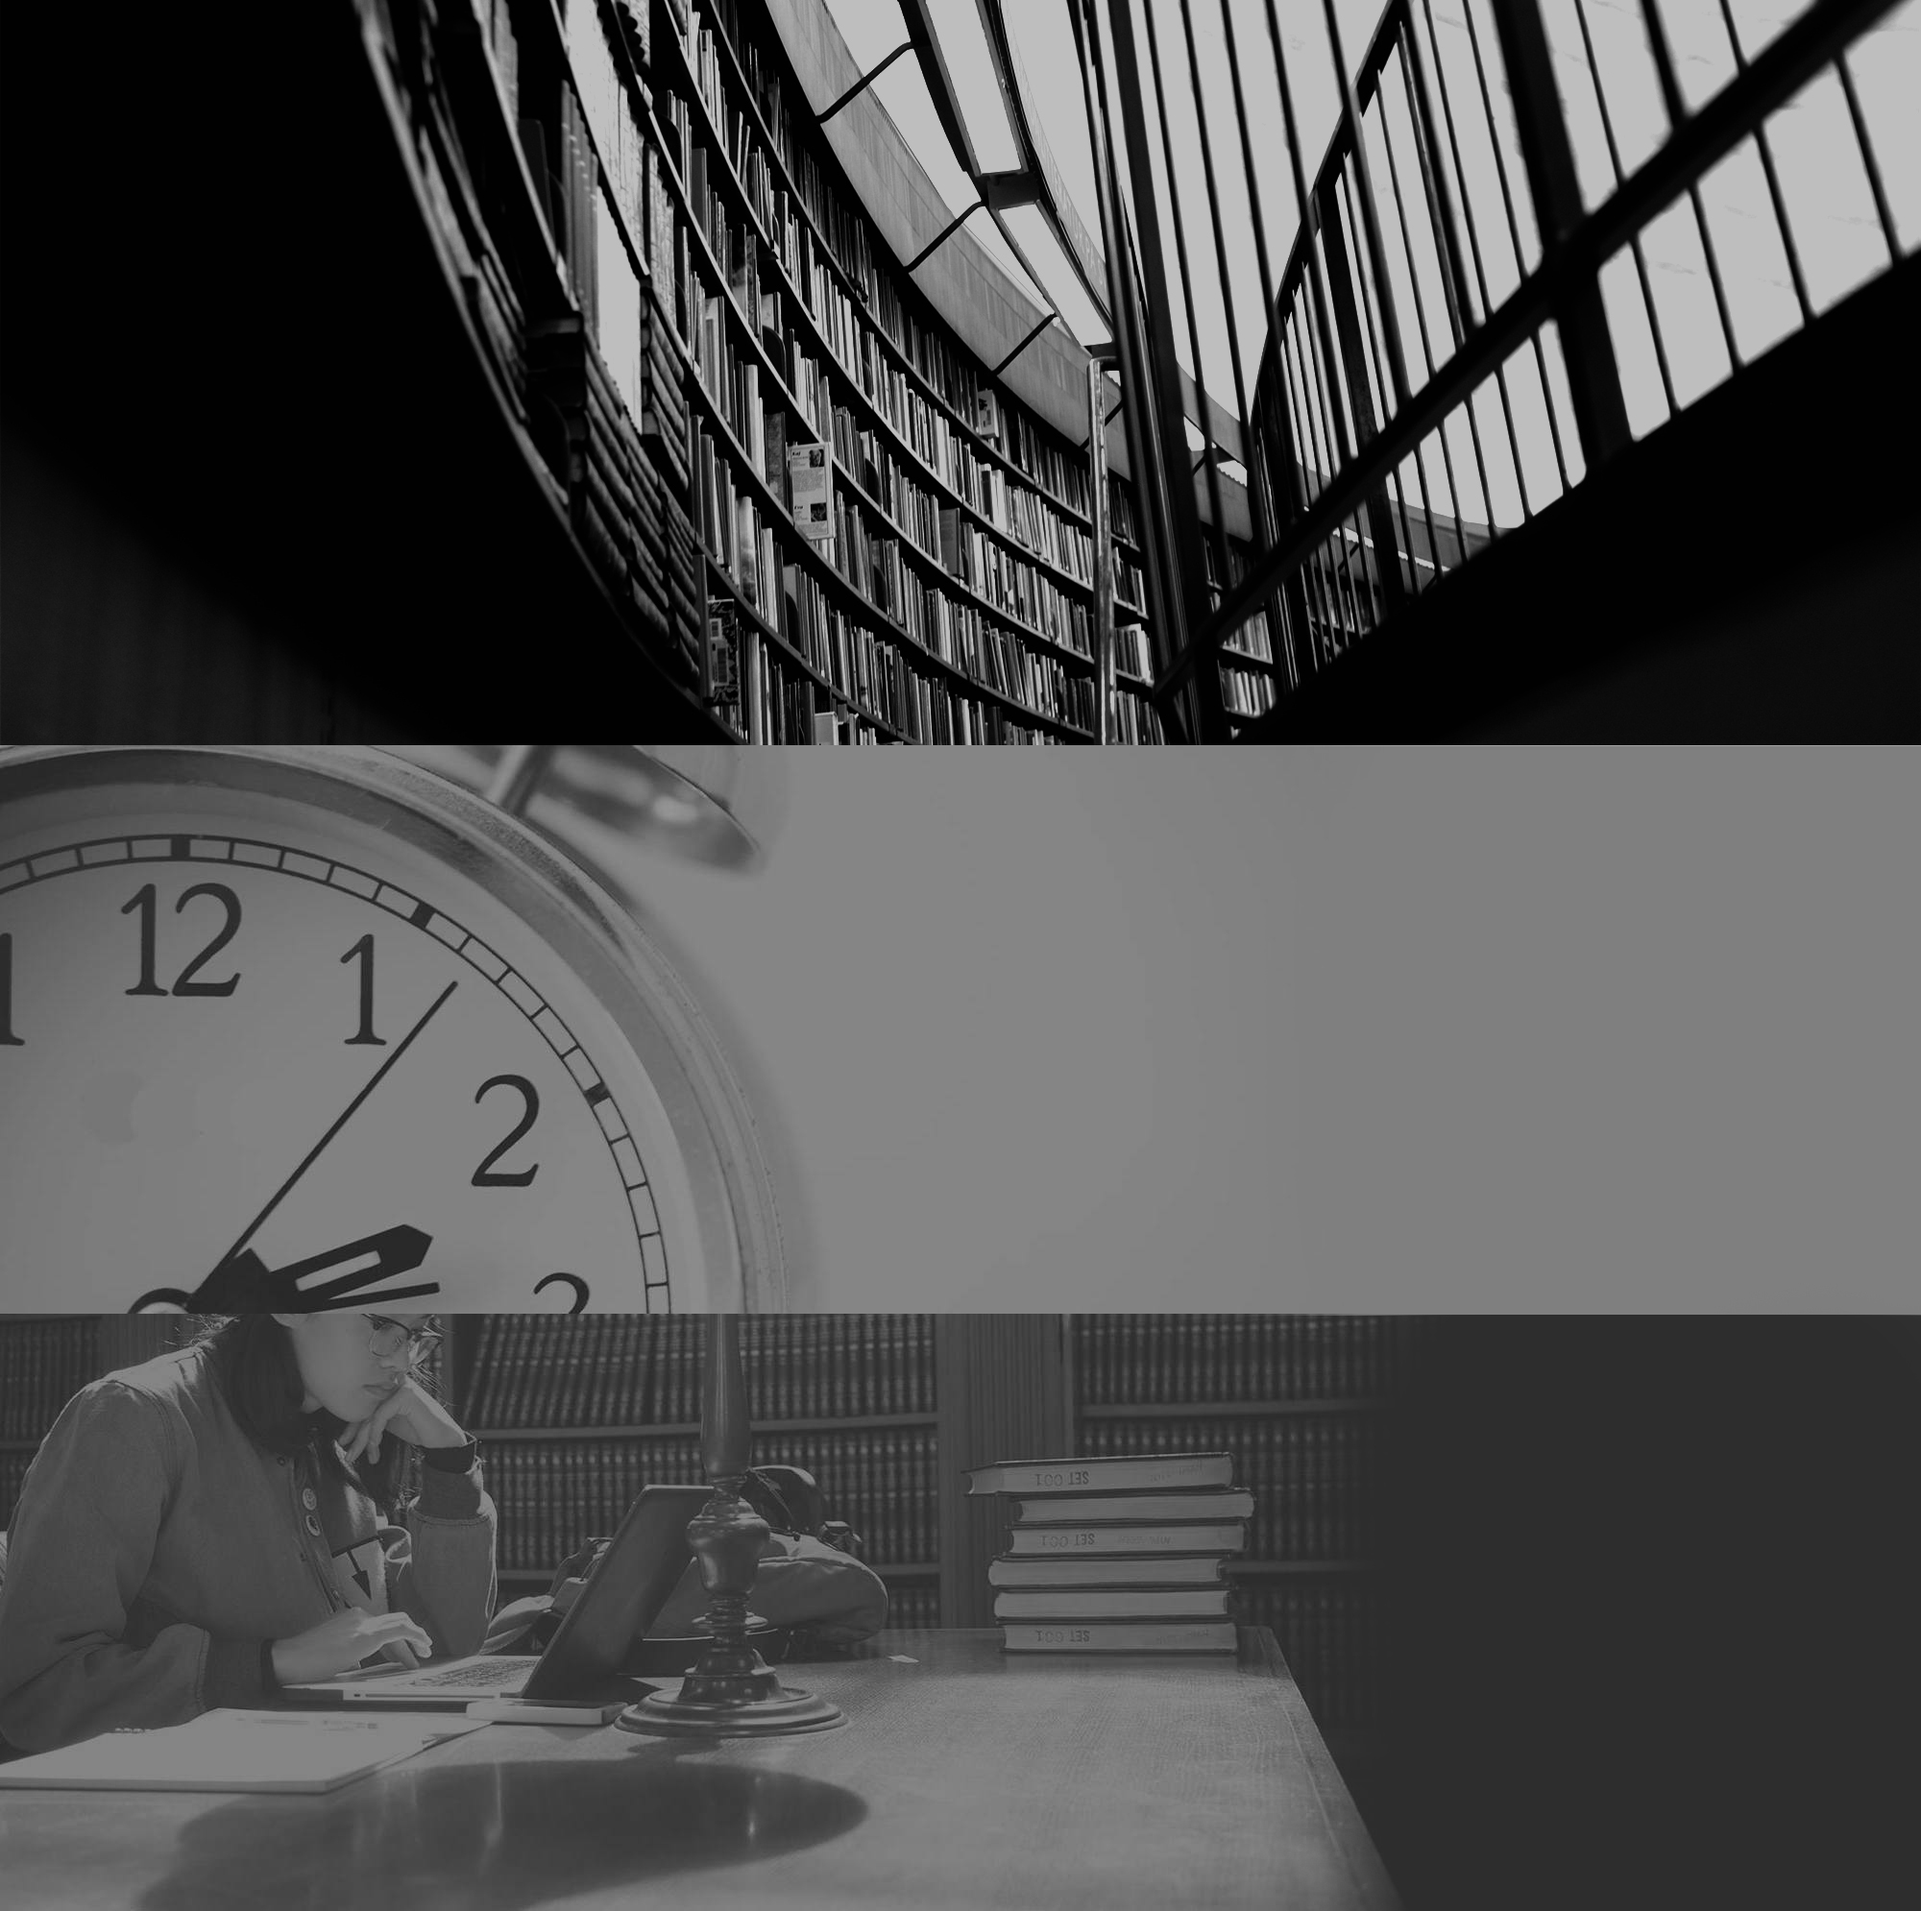
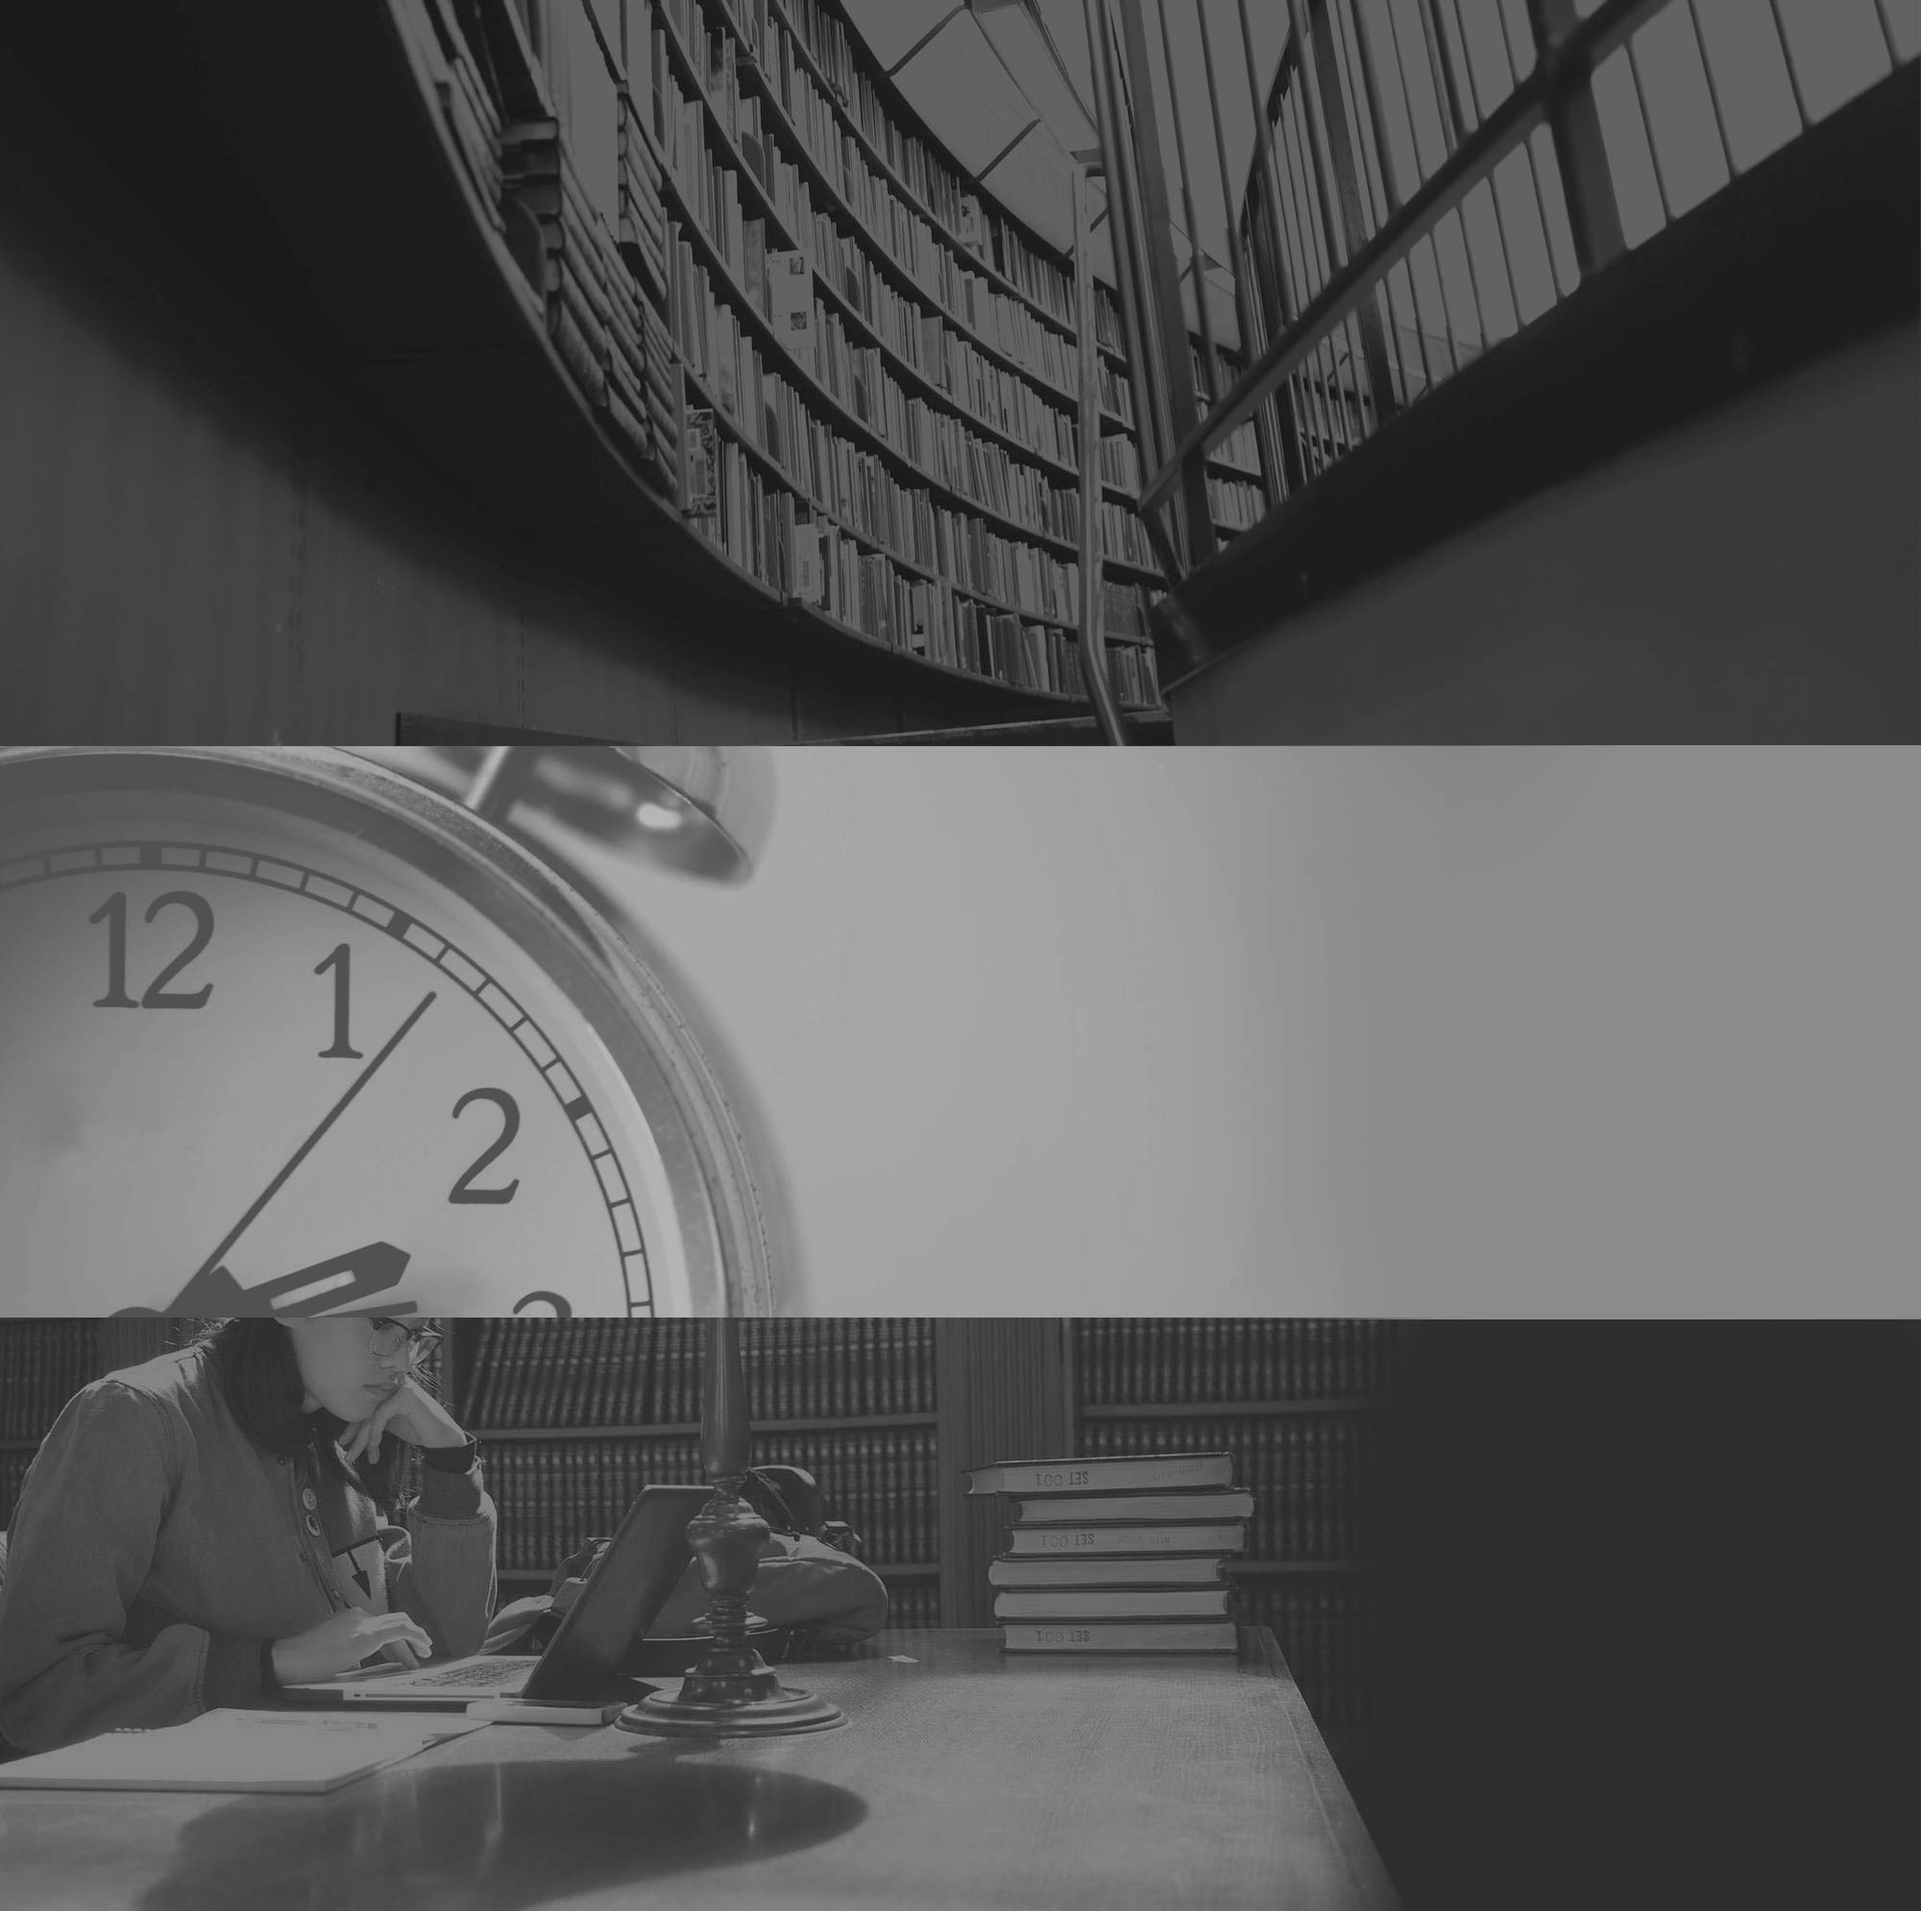
work on landing pages

diff --git a/static/css/custom-style.css b/static/css/custom-style.css
@@ -69,17 +69,15 @@ body > * {
   background-position: 0px -480px;
 }
 #about, #usp, #call-to-action {
-  padding: 5% 0;
-  text-align: center;
+  padding: 2% 0;
   background-size: auto;
-}
-#about h2, #usp h1 p {
-  color: #FFFFFF;
-  line-height: 1.25em;
 }
 #about-us {
   padding: 2% 0;
   background: white;
+}
+#about h3, #usp h2, #call-to-action h2 {
+  color: white;
 }
 #application {
   width: 100%;
@@ -92,16 +90,15 @@ body > * {
 }
 #call-to-action {
   background: url(../assets/stock-img/bg-img-small.jpg) no-repeat;
-  background-position: 0px -280px;
-  text-align: center;
-}
-#call-to-action h1 {
-  color: #FFFFFF;
+  background-position: 0px -275px;
 }
 #clients {
   padding: 2% 0;
-  text-align: center;
   background: white;
+  text-align: center;
+}
+#clients h2 {
+  text-align: left !important;
 }
 .bg {
   background: white;
@@ -136,15 +133,13 @@ body > * {
 }
 #features {
   background: white;
-  padding: 0;
-  padding: 7% 0;
 }
 #features i, #reasons i, #summary i {
   color: #8baf3e;
   font-size: 4em;
 }
 #features h2 {
-  text-align: center;
+  text-align: left;
 }
 #footer {
   background: #fff;
@@ -167,6 +162,9 @@ body > * {
 #footer i {
   font-size: 16px;
   margin-right: 10px;
+}
+#contact-information {
+  margin-top: -20px;
 }
 #form {
   border: 1px solid #dbdbdb;
@@ -213,9 +211,6 @@ body > * {
 #reasons {
   padding: 2% 0;
   background: white;
-}
-#reasons h2 {
-  text-align: center;
 }
 #results {
   background: white;
@@ -611,9 +606,6 @@ a.minor:hover {
 #help-docs a {
   text-decoration: underline;
 }
-#link-forgot-pwd {
-  text-align: center;
-}
 .text-center {
   text-align: center;
 }
@@ -643,12 +635,12 @@ button {
   border: none;
   color: white;
   display: inline-block;
-  font-size: 14px;
+  font-size: 0.875em;
   letter-spacing: 1px;
-  padding: 15px 0 15px 0;
+  padding: 15px;
   text-align: center;
   text-transform: uppercase;
-  width: 100%;
+  width: auto;
 }
 button:hover, button:active {
   background: #b4cf7b;
@@ -767,58 +759,66 @@ table td {
    MEDIA QUERIES
 *------------------------------------*/
 @media (min-width: 550px) {
-  #about, #call-to-action {
-    padding: 7% 0;
+  #about, #call-to-action, #usp {
+    padding: 7% 0 5% 0;
+  }
+  #about, #call-to-action, #usp {
+    background: url(../assets/stock-img/bg-img-medium.jpg) no-repeat;
+    text-align: center;
   }
   #about {
-    background: url(../assets/stock-img/bg-img-medium.jpg) no-repeat;
     background-position: 0px -820px;
   }
   #call-to-action {
-    background: url(../assets/stock-img/bg-img-medium.jpg) no-repeat;
     background-position: 0px -500px;
   }
-  #usp {
-    background: url(../assets/stock-img/bg-img-medium.jpg) no-repeat;
+  #features {
+    margin-top: 50px;
+  }
+  button, .button {
+    width: 100%;
   }
 }
 @media (min-width: 850px) {
-    h1 {
+  h1 {
     font-size: 2.25em;
-    line-height: 1.25em;
+    line-height: 2.5em;
   }
   h2 {
     font-size: 2em;
-    line-height: 1.153em;
+    line-height: 1.5em;
   }
   h3 {
     font-size: 1.75em;
-    line-height: 1.136em;
+    line-height: 1.5em;
   }
   h4 {
     font-size: 1.5em;
-    line-height: 1.11em;
   }
   h5 {
     font-size: 1.25em;
-    line-height: 1.11em;
+    line-height: 1.5em;
   }
   p {
     font-size: 1em;
-    line-height: 1.5em;
+    line-height: 1.75em;
+  }
+  #about, #call-to-action, #usp {
+    background: url(../assets/stock-img/bg-img-large.jpg) no-repeat;
+    padding: 8% 0;
   }
   #about {
-    background: url(../assets/stock-img/bg-img-large.jpg) no-repeat;
     background-position: 0px -1350px;
     background-attachment: fixed;
   }
   #call-to-action {
-    background: url(../assets/stock-img/bg-img-large.jpg) no-repeat;
     background-position: 0px -800px;
   }
   #usp {
-    background: url(../assets/stock-img/bg-img-large.jpg) no-repeat;
     background-attachment: fixed;
+  }
+  #contact-information {
+    margin-top: 0;
   }
   #application {
     margin-top: 60px;

diff --git a/source/content/landing-pages/about-tm-tagline.md b/source/content/landing-pages/about-tm-tagline.md
@@ -1,1 +1,1 @@
-## An interactive Application Security library with thousands of code samples and professional guidance when you need it
+### An interactive Application Security library with thousands of code samples and professional guidance when you need it

diff --git a/source/content/landing-pages/usp.md b/source/content/landing-pages/usp.md
@@ -1,1 +1,1 @@
-Instant resources that bridge the gap between developer questions and technical solutions
+## Instant resources that bridge the gap between developer questions and technical solutions

diff --git a/source/content/landing-pages/clients-div-heading.md b/source/content/landing-pages/clients-div-heading.md
@@ -1,1 +1,1 @@
-## Our clients love us (and we think you will too!)
+### Our clients love us (and we think you will too!)

diff --git a/source/content/landing-pages/call-to-action.md b/source/content/landing-pages/call-to-action.md
@@ -1,1 +1,1 @@
-# Security Risk. Understood.
+## Security Risk. Understood.
